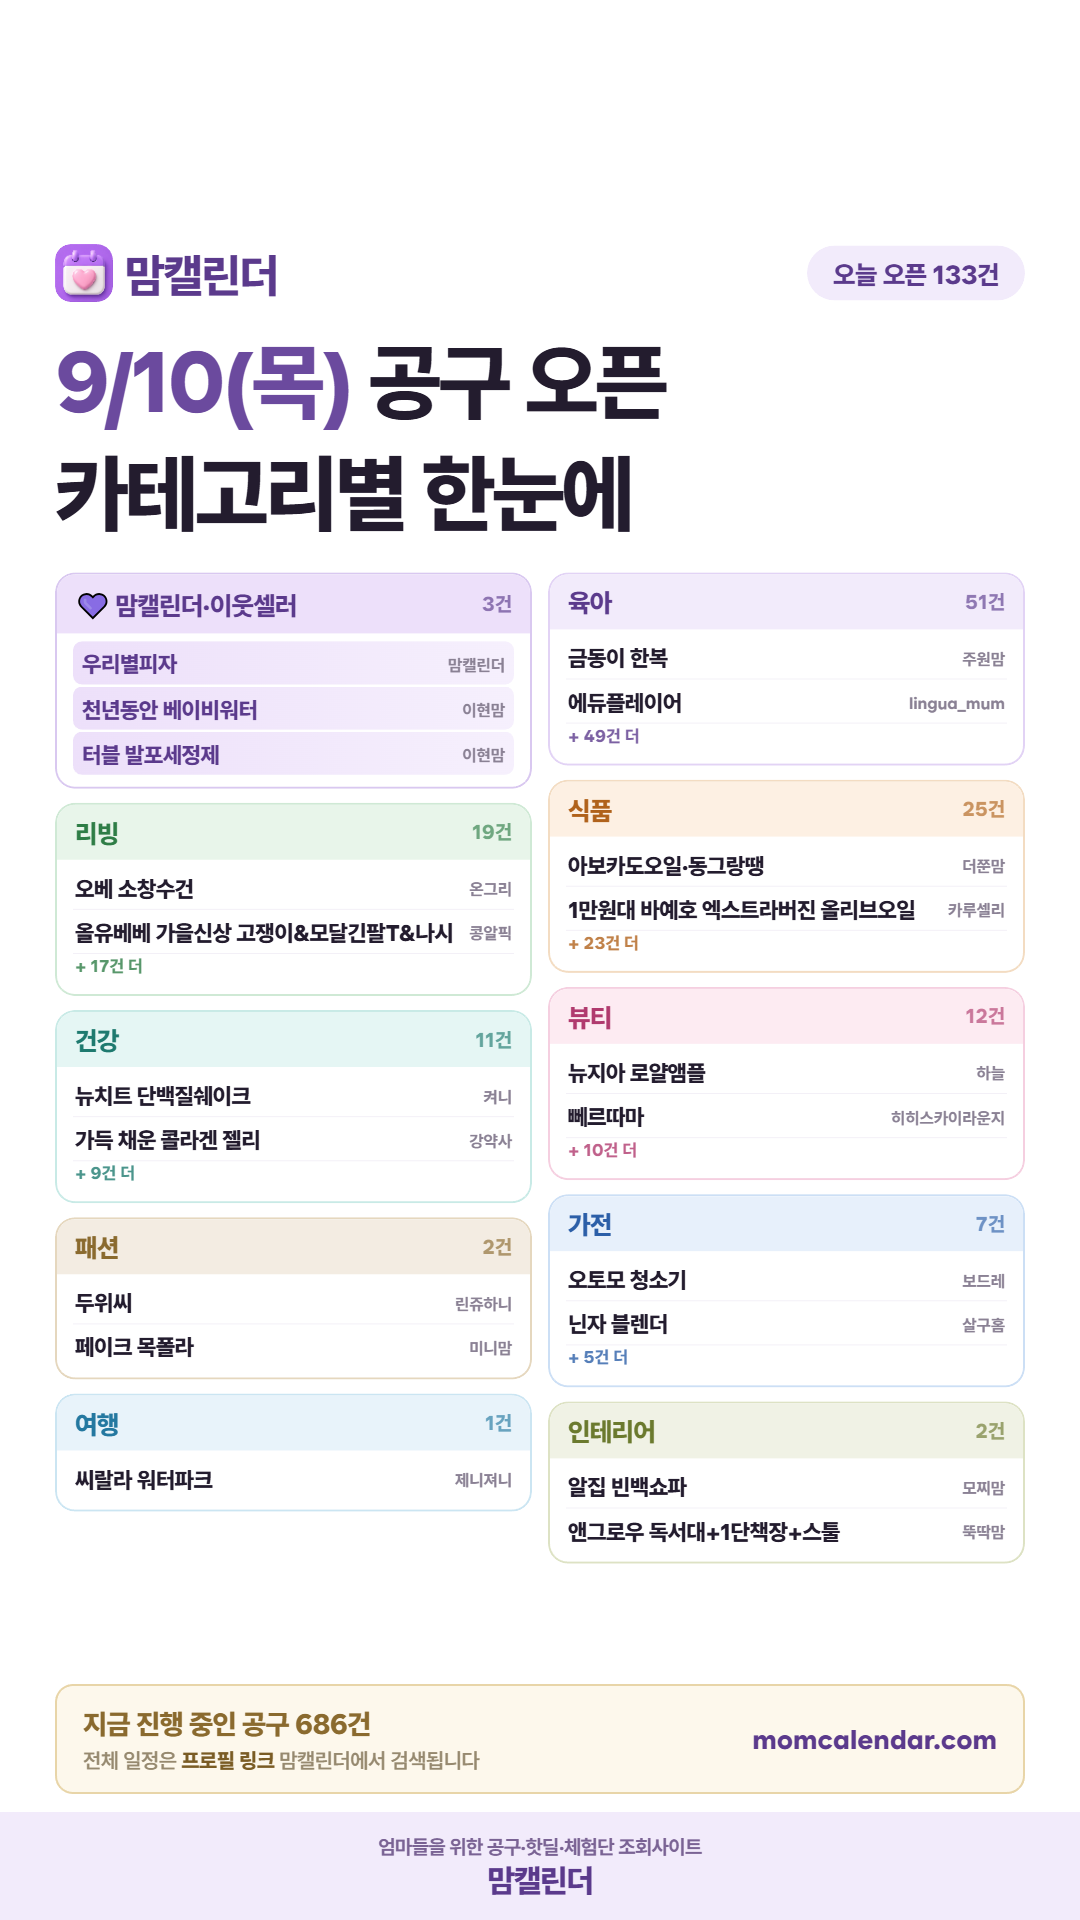
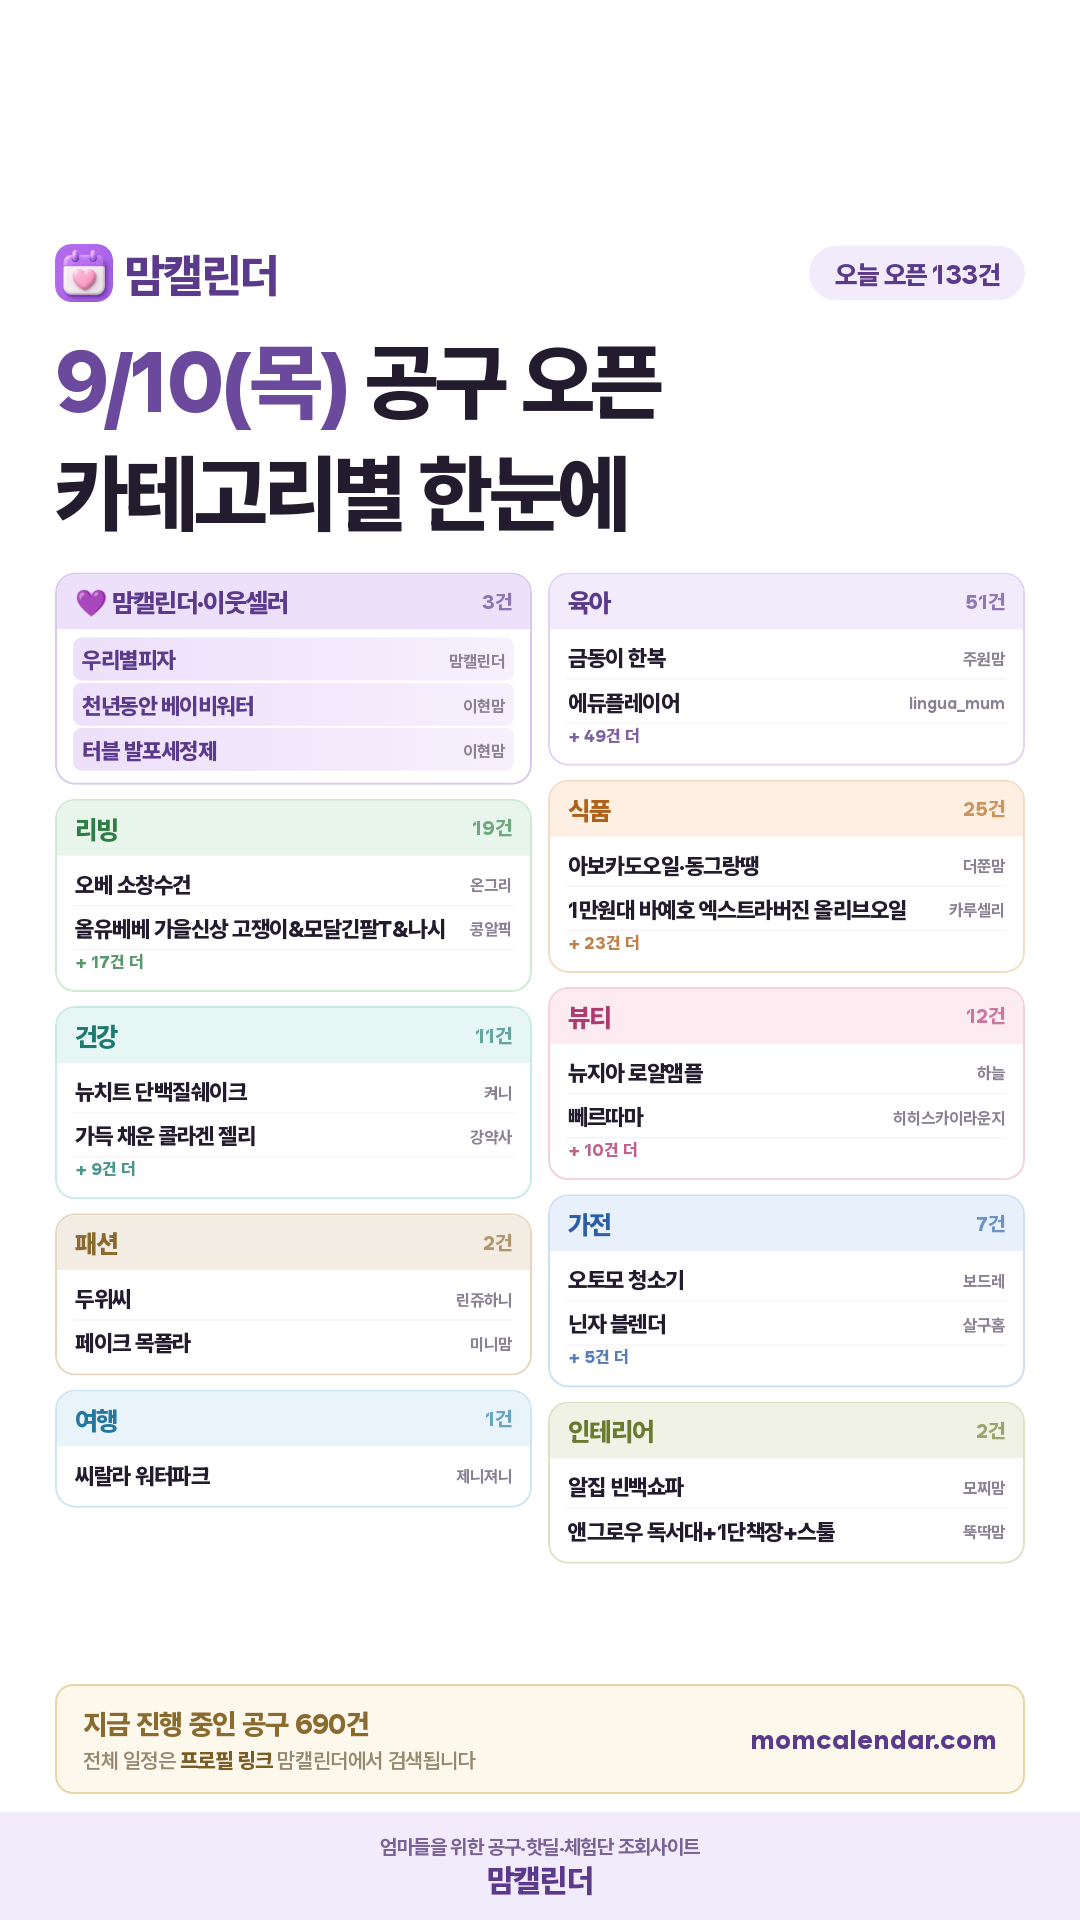
아침 인스타 카드 (2026-09-07)

diff --git a/daily/2026-09-10.html b/daily/2026-09-10.html
@@ -25,7 +25,7 @@ textarea{width:100%;height:260px;border:1px solid #E3DCEF;border-radius:10px;pad
   <div class="card"><img src="./2026-09-10.png" alt="오늘 공구 카드"></div>
   <a class="btn" href="./2026-09-10.png" download="momcal_20260910.png">사진 저장</a>
   <div class="card">
-    <textarea id="cap" readonly>이 중에 찾으시던 공구 하나쯤 있을 거예요
+    <textarea id="cap" readonly>바쁜 아침, 30초면 오늘 공구가 다 보여요
 
 9월 10일(목) 공구 오픈 133건 · 마감 160건
 
@@ -41,9 +41,9 @@ textarea{width:100%;height:260px;border:1px solid #E3DCEF;border-radius:10px;pad
 · 에듀플레이어 — lingua_mum (~9/13)
 · 꽁떼떼 회전책장•교구장 — 채쓰맘 (~9/13)
 · 리틀피기 가을신상 — 도현맘 (~9/13)
+· 몽키버니 휴대용침대 — 희아패밀리 (~9/13)
 · 베리쿡 유아식 모음 — 캔디맘 (~9/15)
 · 봄달 블랭킷 — 말랑맘 (~9/13)
-· 해산물시리즈 — 집순키친 (~9/13)
 …외 44건
 
 🍱 식품
@@ -113,29 +113,29 @@ textarea{width:100%;height:260px;border:1px solid #E3DCEF;border-radius:10px;pad
 · 인스파이어 단독 — seo_do.a
 · 맘스나이아드 베이비워터 — 제이주주
 · 안지가구 전면책장 — 온이프홈
-· 잼먹 채수·아기간장 — 또마맘
+· 세이펜 4세대 &amp; 세이톡 5세대 — 오꼬베
 …외 153건
 
 
 ━━━━━━━━━━━━━━
 
-📌 저장해두면 필요할 때 바로 꺼내 볼 수 있어요
-💜 팔로우하면 내일 일정도 놓치지 않아요
+도움이 되셨다면 👍 좋아요 하나 눌러주세요
+📌 저장 · 💜 팔로우는 큰 힘이 됩니다
 
 공구 찾을 땐 프로필 링크의 맘캘린더 사이트에서
 검색 한 번이면 끝나요
 피드를 매일 못 보신다면 네이버카페 「맘캘린더」도 있어요
 엄마들끼리 수다 떨며 정보 나누는 공간이에요 ☕
 
-💬 찾으시는 공구 이름을 댓글로 남겨주세요
-다음 일정 업데이트에 우선순위로 반영해서 올릴게요
+💬 댓글로 남겨주신 공구는
+맘캘린더 일정에 우선 반영해서 찾아드려요
 
-유익하셨길 바라며, 내일도 찾아올게요 🙌
+오늘도 함께해 주셔서 감사해요, 내일 또 만나요 💜
 
 ⚠ 공구 일정은 판매자 사정에 따라 변경·조기마감될 수 있어요.
 
-#맘캘린더 #공구일정 #육아공구 #9월10일공구 #영양제 #유모차 #공구찾기 #신학기준비 #공구모음 #육아맘 #맘스타그램 #공구오픈</textarea>
-    <div class="meta">2178자</div>
+#맘캘린더 #공구일정 #육아공구 #9월10일공구 #공구정보 #육아맘 #육아템 #육아정보 #육아일상 #책육아 #오늘의공구 #공구오픈</textarea>
+    <div class="meta">2179자</div>
     <button class="btn btn2" onclick="cp('cap','캡션')">캡션 복사</button>
   </div>
   <div class="card">
@@ -168,7 +168,7 @@ https://open.kakao.com/o/gr2kJhCh
 ─────────────
 
 9월 10일(목), 오늘 문 여는 공동구매 160건이에요. 카테고리별로 보기 좋게 정리했어요.
-오늘 끝나는 공구가 195건이라 아래쪽도 같이 확인해 보세요.
+오늘 끝나는 공구가 196건이라 아래쪽도 같이 확인해 보세요.
 
 ■ 오늘 오픈하는 공구 160건
 
@@ -208,8 +208,8 @@ https://open.kakao.com/o/gr2kJhCh
 · 삼천리 자전거 — 벨라하우스 (~9/13 마감)
 · 세이펜 5세대 세이톡 — 젤리또리 (~9/13 마감)
 · 세이펜 EDP101 시리즈 — 워니럽마켓 (~9/13 마감)
-· 소중한습관 모음전 — 뮤즈마켓 (~9/14 마감)
 · 소중한습관 모음전 — 뮤즈언니 (~9/14 마감)
+· 소중한습관 모음전 — 뮤즈마켓 (~9/14 마감)
 · 아기상어 식기 모음전 — 오니맘 (~9/13 마감)
 · 아토앤오투 스킨케어 4차 — 이니맘 (~9/13 마감)
 · 야물야물 그림책 3차 — 서누서나네 (~9/13 마감)
@@ -287,7 +287,7 @@ https://open.kakao.com/o/gr2kJhCh
 · 천년동안 베이비워터 — 이현맘 (~9/13 마감)
 · 추석 선물세트 — 다루세상 (~9/13 마감)
 · 퍼시피카튜나 선물세트·단품 — 명희홈쿡 (~9/20 마감)
-· 풍심당 — dudungmom (~9/13 마감)
+· 풍심당 — 두둥맘 (~9/13 마감)
 · 프리미엄 톳전복죽 — 기요니 (~9/13 마감)
 · 핀카라로카 유기농 엑스트라버진 올리브오일 — 명희홈쿡 (~9/20 마감)
 · 하루 호박차 — 라온살림 (~9/13 마감)
@@ -314,8 +314,8 @@ https://open.kakao.com/o/gr2kJhCh
 · 뉴지아 로얄앰플 — 하늘 (~9/14 마감)
 · 뻬르따마 — 히히스카이라운지 (~9/13 마감)
 · 세라카졸라 — 브론즈 (~9/17 마감)
-· 식스킨 타이트샷 — 애즈 (~9/13 마감)
 · 식스킨 타이트샷 — 서수영 (~9/14 마감)
+· 식스킨 타이트샷 — 애즈 (~9/13 마감)
 · 압토솔 선크림 — 원더아나 (~9/13 마감)
 · 온가족 사용 가성비 레이저 마지막 — 케이에이치집 (~9/13 마감)
 · 올바스 밤·오일 — 여울맘 (~9/13 마감)
@@ -350,7 +350,7 @@ https://open.kakao.com/o/gr2kJhCh
 · 암막 블라인드 — 희아패밀리 (~9/13 마감)
 · 앤그로우 독서대+1단책장+스툴 — 뚝딱맘 (~9/12 마감)
 
-■ 오늘 끝나는 공구 195건
+■ 오늘 끝나는 공구 196건
 · "작심랩" 콤부차 &amp; 애사비 — 진실
 · 1+1 몬테소리 비지북📘📗 — 하루맘
 · 100% 한우 떡갈비 — 예지홈
@@ -427,8 +427,8 @@ https://open.kakao.com/o/gr2kJhCh
 · 무타공 욕실선반 — 헬룸
 · 물아저씨 원서 — 류둥이네
 · 미경산 암소한우 추석 선물세트 — 인영
-· 밀키요 — 해피엘
 · 밀키요 — 서노
+· 밀키요 — 해피엘
 · 밀키요 요거트·콩포트 — 태브로맘
 · 바겐슈타이거 주방용품 — rescue.salim
 · 바브레 변기모음전 4차 — 젤리또리
@@ -438,6 +438,7 @@ https://open.kakao.com/o/gr2kJhCh
 · 베라수 엄마사랑 산후조리 패키지 — 모꼬맘
 · 베어블리 칠교놀이 — 미쁘주
 · 베프 확률 3% — 위쓰담북
+· 벤밧 카시트커버 — heeah_travel
 · 벤밧 카시트커버 — 희아패밀리
 · 벨리라잇 — 민주언니
 · 벳푸·후쿠오카 패키지 특가 — 룰루미뇽
@@ -489,7 +490,7 @@ https://open.kakao.com/o/gr2kJhCh
 · 엘포틴 5세대 유산균·구강유산균 — 잼잼키친
 · 엘프레리 기저귀 — 두리니
 · 오르다 연산놀이 2차·매파빌 — 꽃비니
-· 오보기 포대기 — dudungmom
+· 오보기 포대기 — 두둥맘
 · 오즈키즈 신발 모음전 — 워니메이
 · 오징어팝콘블럭 — 축복맘
 · 오키독 — 하윤맘

diff --git a/daily/index.html b/daily/index.html
@@ -1,1 +1,1 @@
-<!DOCTYPE html><meta charset="UTF-8"><meta http-equiv="refresh" content="0;url=./2026-09-09.html">
+<!DOCTYPE html><meta charset="UTF-8"><meta http-equiv="refresh" content="0;url=./2026-09-10.html">
